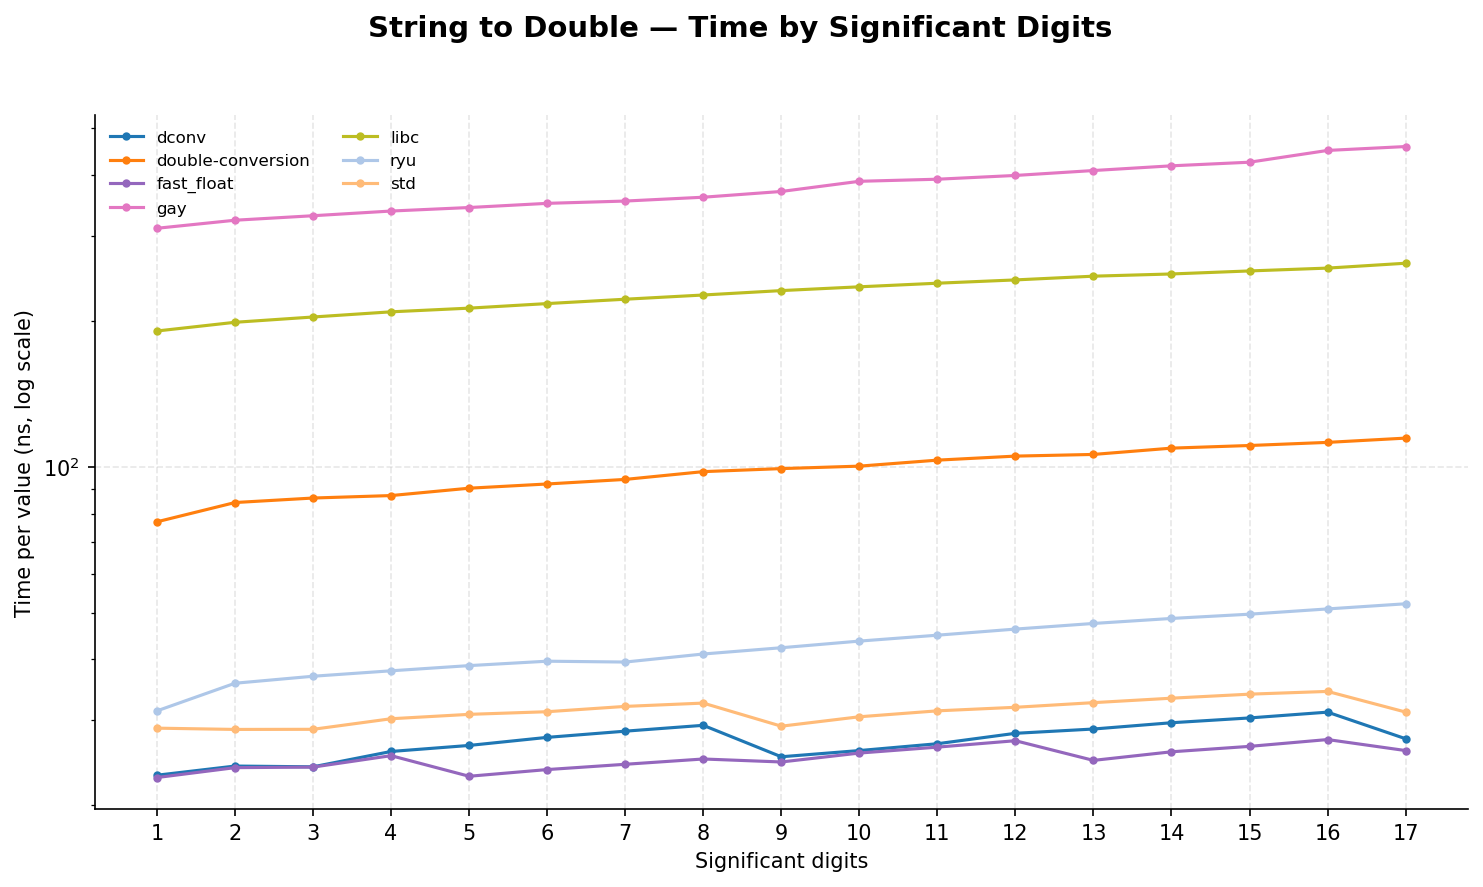
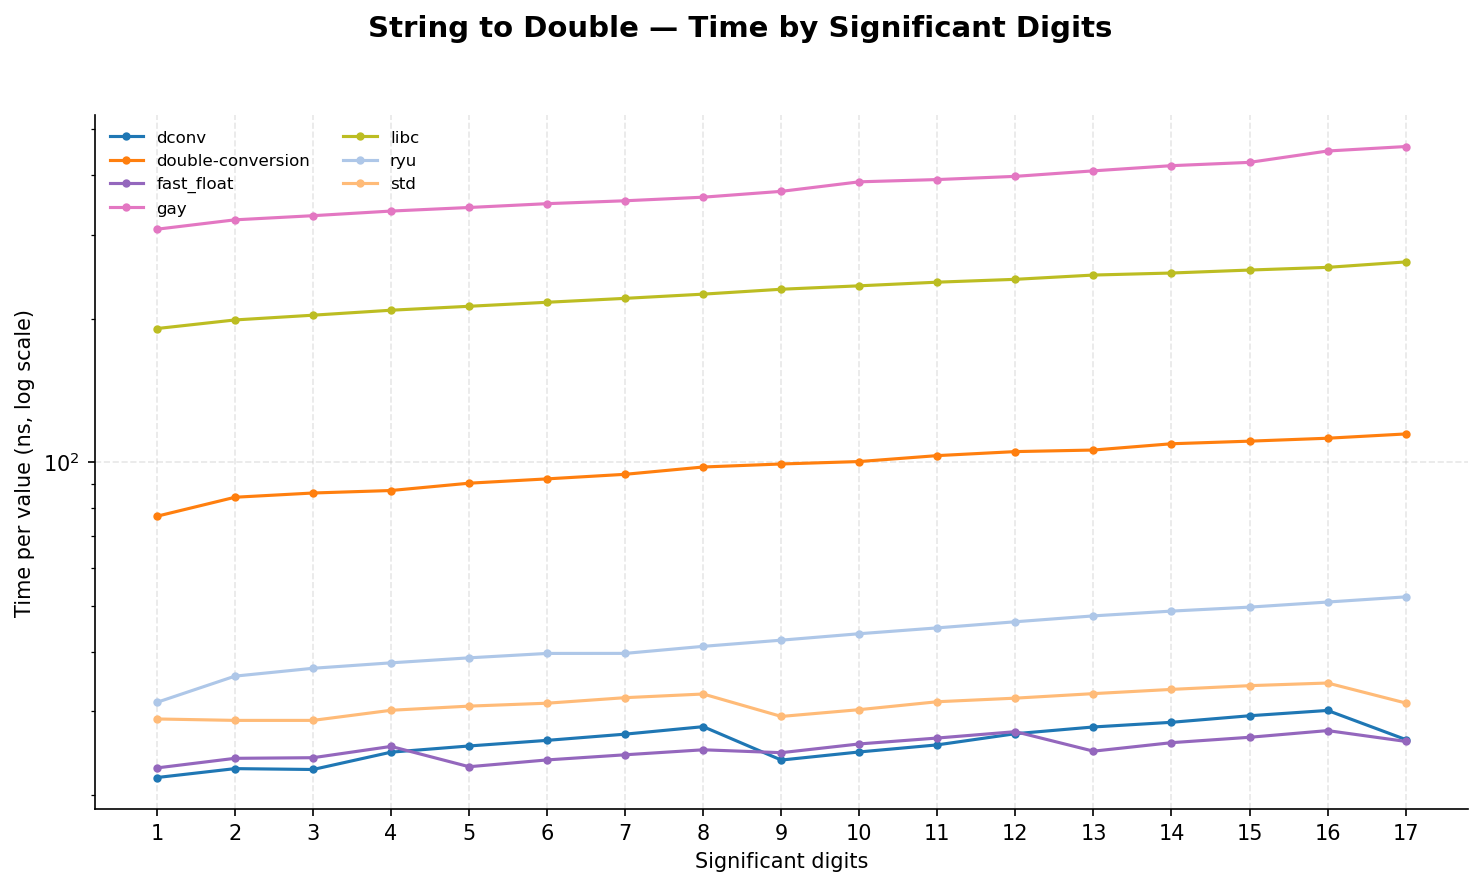
Use dconv 2.0.1 (#3)

diff --git a/README.md b/README.md
@@ -24,10 +24,10 @@ Largely inspired by [dtoa-benchmark](https://github.com/miloyip/dtoa-benchmark) 
 
 | Library | Version | Dtoa | Atod | Algorithm |
 |---------|---------|:----:|:----:|-----------|
-| [dconv](https://github.com/joinframework/dconv) | v2.0.0 | ✓ | ✓ | Schubfach / Eisel-Lemire with strtod fallback |
-| [dconv](https://github.com/joinframework/dconv) grisu | v2.0.0 | ✓ | | Grisu |
-| [dconv](https://github.com/joinframework/dconv) grisu2 | v2.0.0 | ✓ | | Grisu2 |
-| [dconv](https://github.com/joinframework/dconv) grisu3 | v2.0.0 | ✓ | | Grisu3 with `std::to_chars` fallback |
+| [dconv](https://github.com/joinframework/dconv) | v2.0.1 | ✓ | ✓ | Schubfach / Eisel-Lemire with strtod fallback |
+| [dconv](https://github.com/joinframework/dconv) grisu | v2.0.1 | ✓ | | Grisu |
+| [dconv](https://github.com/joinframework/dconv) grisu2 | v2.0.1 | ✓ | | Grisu2 |
+| [dconv](https://github.com/joinframework/dconv) grisu3 | v2.0.1 | ✓ | | Grisu3 with `std::to_chars` fallback |
 | [double-conversion](https://github.com/google/double-conversion) | v3.4.0 | ✓ | ✓ | Grisu3 with bignum fallback / Clinger with bignum fallback |
 | [Drachennest](https://github.com/abolz/Drachennest) grisu3 | e6714a3 | ✓ | | Grisu3 with Dragon4 fallback |
 | [Drachennest](https://github.com/abolz/Drachennest) schubfach | e6714a3 | ✓ | | Schubfach |
@@ -195,7 +195,7 @@ All figures below come from a single run on this machine (3 repetitions, each in
 | Toolchain | GCC 15.2.0, glibc 2.43, libstdc++ runtime from GCC 16 (6.0.35), CMake 4.2.3 |
 | Compile flags | `-O3 -DNDEBUG -march=native -std=c++20` |
 | Pinning | `taskset -c 2` (physical core, SMT sibling 10) |
-| Conditions | idle machine, 3 repetitions, run started once the CPU was back to its rated clock; spread across repetitions below 2% for 422 of 462 benchmarks and below 5% for 442; outliers are dconv Grisu3 (up to 13% on `Canada`), dconv on the `Digits04` to `Digits08` datasets (up to 11%), `std::to_chars` and Milo Yip's Grisu2 (up to 10%) |
+| Conditions | idle machine, 3 repetitions, run started once the CPU was back to its rated clock; spread across repetitions below 2% for 419 of 462 benchmarks and below 5% for 450; outliers are dconv Grisu (up to 19% on `Digits03`), dconv `atod` on `Digits06` (16%), Ryu on `Digits15`, `std::from_chars` on `Digits01` and Milo Yip's Grisu2 (up to 15%) |
 
 ## Results
 
@@ -207,7 +207,7 @@ Measured on a development machine. Re-run `scripts/run_bench.sh` to reproduce on
 
 ![Dtoa by digits](plots/digits_dtoa.png)
 
-**Dragonbox** leads at 25.1 ns per value, followed by **dconv** (28.9 ns, Schubfach), **Drachennest Schubfach** (29.3 ns) and **Ryu** (32.2 ns): these recent algorithms compute the shortest decimal significand with a few 128-bit multiplications, then print it, and their time barely depends on the number of digits (29.4 ns for one digit and 38.2 ns for seventeen with dconv). dconv is the fastest on integers (15.1 ns). **dconv Grisu** (33.7 ns) prints up to 18 digits without looking for the shortest output. **fmt** (41.8 ns) uses Dragonbox but pays for its formatting layer. **Drachennest Grisu3** (46.3 ns) is fast on integers (17.6 ns) but slower on random exponents. **std** (`std::to_chars`, 51.7 ns), **dconv Grisu2** (58.8 ns), **dconv Grisu3** (60.8 ns) and **Tejú Jaguá** (63.5 ns) form the next group; Grisu2 and Grisu3 generate the digits one by one (35 ns for one digit, about 70 ns for seventeen). **Milo Yip**'s Grisu2 (73.5 ns) and **double-conversion** (91.8 ns) follow. **libc** (`snprintf`, 424 ns) and **David Gay**'s `dtoa.c` (774 ns, up to 1.5 µs on random exponents, bignum arithmetic) are an order of magnitude slower.
+**Dragonbox** leads at 25.1 ns per value, followed by **dconv** (28.9 ns, Schubfach), **Drachennest Schubfach** (29.3 ns) and **Ryu** (32.2 ns): these recent algorithms compute the shortest decimal significand with a few 128-bit multiplications, then print it, and their time barely depends on the number of digits (29.4 ns for one digit and 38.2 ns for seventeen with dconv). dconv is the fastest on integers (15.1 ns). **dconv Grisu** (33.6 ns) prints up to 18 digits without looking for the shortest output. **fmt** (41.8 ns) uses Dragonbox but pays for its formatting layer. **Drachennest Grisu3** (46.3 ns) is fast on integers (17.6 ns) but slower on random exponents. **std** (`std::to_chars`, 51.6 ns), **dconv Grisu2** (58.8 ns), **Tejú Jaguá** (59.9 ns) and **dconv Grisu3** (63.2 ns) form the next group; Grisu2 and Grisu3 generate the digits one by one (35 ns for one digit, about 70 ns for seventeen). **Milo Yip**'s Grisu2 (73.5 ns) and **double-conversion** (91.8 ns) follow. **libc** (`snprintf`, 424 ns) and **David Gay**'s `dtoa.c` (774 ns, up to 1.5 µs on random exponents, bignum arithmetic) are an order of magnitude slower.
 
 Tejú Jaguá only provides the decimal significand and exponent: its figure includes the formatting written in its adapter, a plain division loop, and is likely pessimistic for the algorithm itself.
 
@@ -217,7 +217,7 @@ Tejú Jaguá only provides the decimal significand and exponent: its figure incl
 
 ![Atod by digits](plots/digits_atod.png)
 
-**fast_float** (20.2 ns per value) and **dconv** (21.4 ns) lead, both using the Eisel-Lemire algorithm: dconv is faster on integers (14.4 ns against 19.8 ns), fast_float on `Canada` (15.8 ns against 21.2 ns) and `Unit` (14.3 ns against 17.2 ns). **std** (`std::from_chars`, 25.9 ns, built on fast_float in libstdc++) follows within 30%, then **Ryu** (41.1 ns). **double-conversion** (100.4 ns) is five times slower, then **libc** (`strtod`, 153 ns) and **David Gay**'s `strtod` (255 ns).
+**fast_float** (20.2 ns per value) and **dconv** (20.5 ns) lead, both using the Eisel-Lemire algorithm: dconv is faster on integers (13.1 ns against 19.7 ns), fast_float on `Canada` (15.8 ns against 20.3 ns) and `Unit` (14.3 ns against 16.9 ns). **std** (`std::from_chars`, 25.9 ns, built on fast_float in libstdc++) follows within 30%, then **Ryu** (41.1 ns). **double-conversion** (100.4 ns) is five times slower, then **libc** (`strtod`, 153 ns) and **David Gay**'s `strtod` (255 ns).
 
 dconv is measured in its default general format (`AtodMode::General`), which accepts what `std::from_chars` and fast_float accept by default; its `AtodMode::Json` grammar is not measured here.
 
